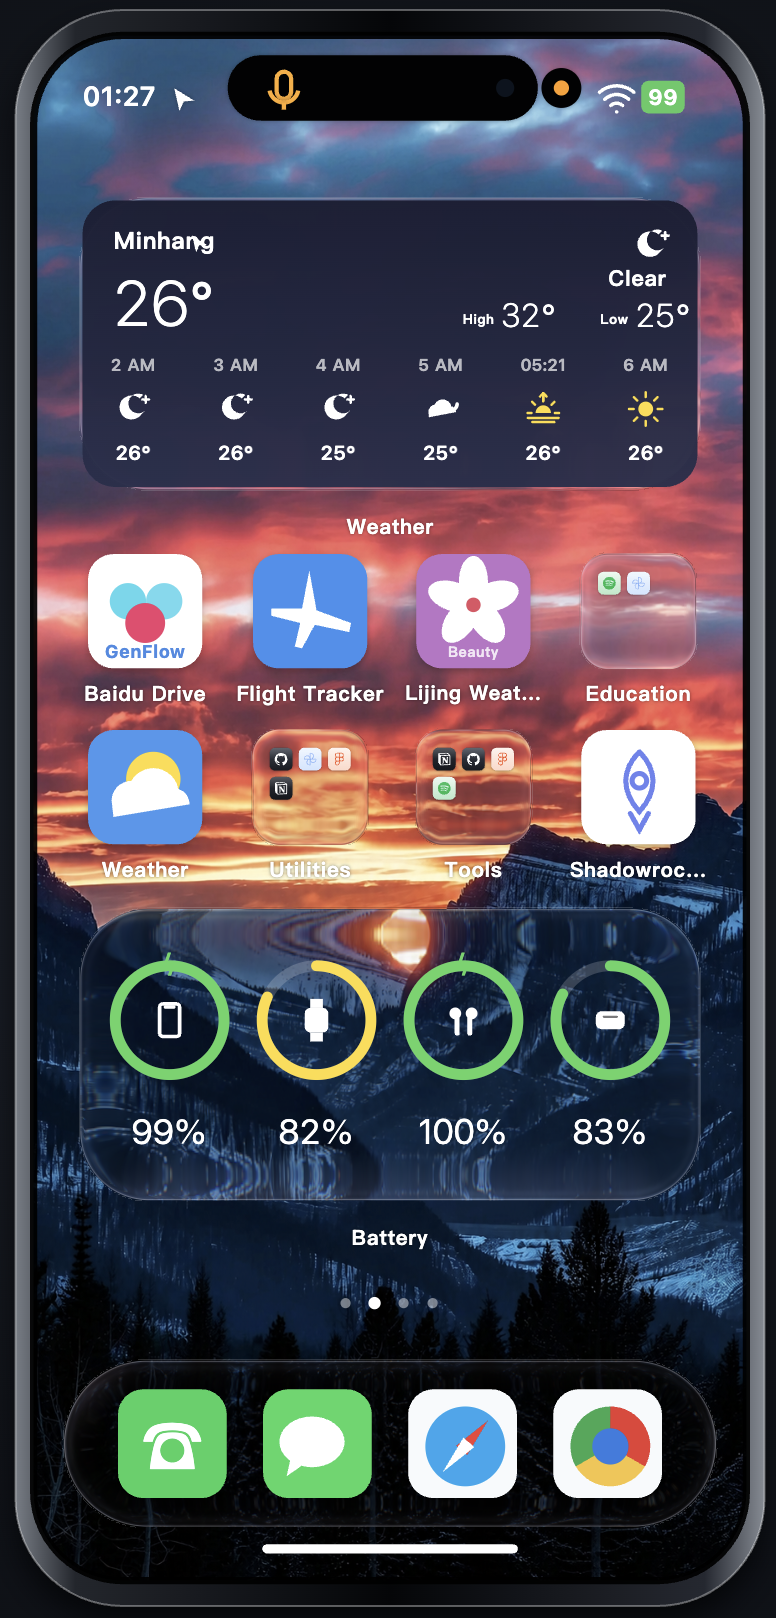
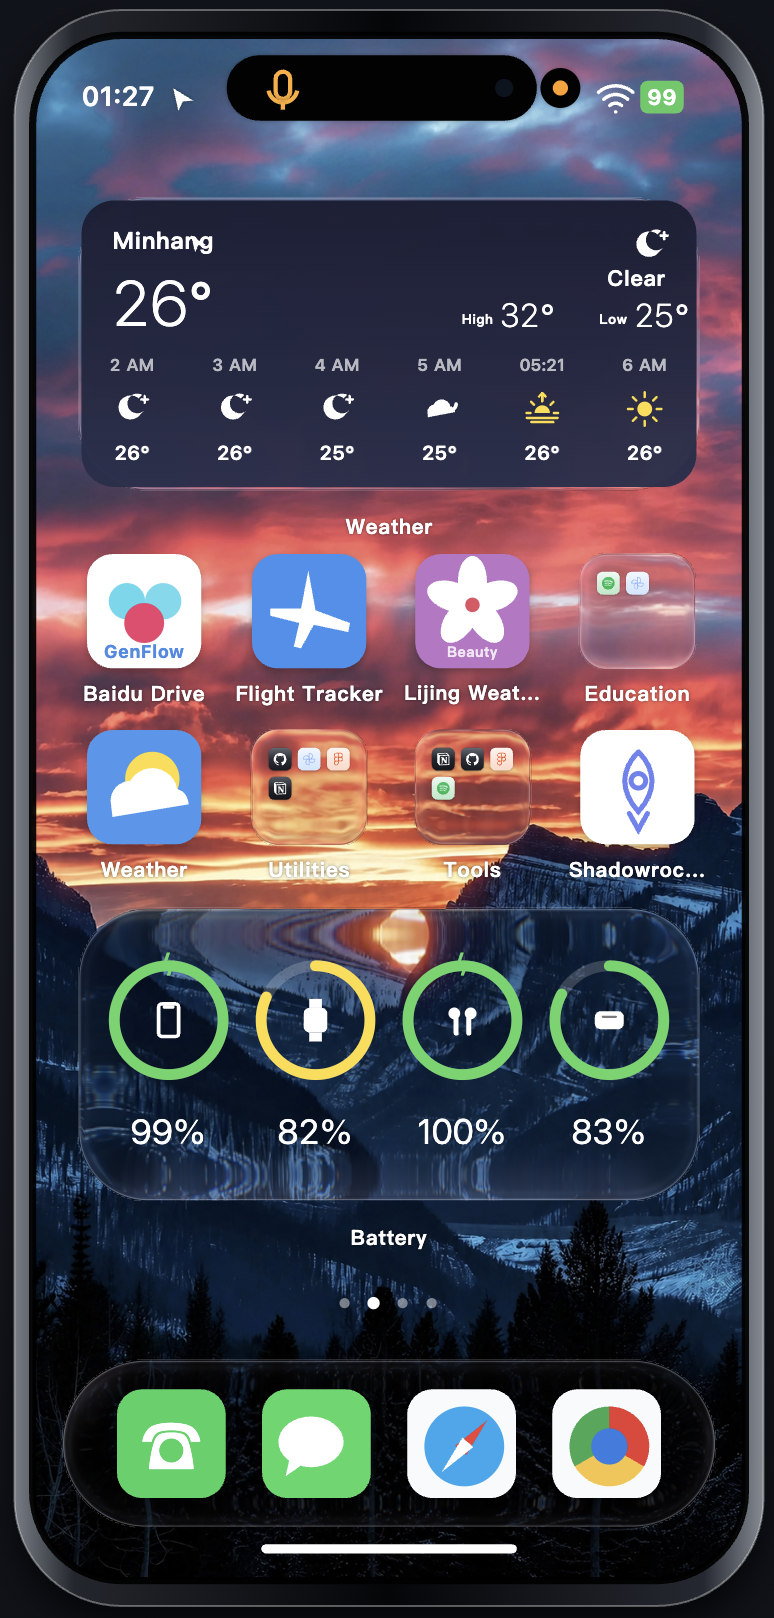
Normalize V2 demo sizes and publish 2.0.3

diff --git a/README.md b/README.md
@@ -21,31 +21,35 @@ wallpapers.
 
 <table>
   <tr>
-    <td><img src="assets/readme/v2-home-page-warm.png" alt="Liquid Glass V2 Home Page on warm fold wallpaper"></td>
-    <td><img src="assets/readme/v2-home-page-sunset.png" alt="Liquid Glass V2 Home Page on sunset lake wallpaper"></td>
-  </tr>
-  <tr>
-    <td><img src="assets/readme/v2-home-page-2.png" alt="Liquid Glass V2 second Home Page on sunset lake wallpaper"></td>
-    <td><img src="assets/readme/v2-night-city.png" alt="Liquid Glass V2 glass surfaces on a night city backdrop"></td>
+    <td align="center"><img src="assets/readme/v2-home-page-warm.png" alt="Liquid Glass V2 Home Page on warm fold wallpaper" width="360" height="752"></td>
+    <td align="center"><img src="assets/readme/v2-home-page-sunset.png" alt="Liquid Glass V2 Home Page on sunset lake wallpaper" width="360" height="752"></td>
   </tr>
 </table>
+
+<p align="center">
+  <img src="assets/readme/v2-home-page-2.png" alt="Liquid Glass V2 second Home Page on sunset lake wallpaper" width="360" height="752">
+</p>
+
+<p align="center">
+  <img src="assets/readme/v2-night-city.png" alt="Liquid Glass V2 glass surfaces on a night city backdrop" width="720" height="527">
+</p>
 
 ### Reference scenes
 
 ### Alpine Lake
 
-![Liquid Glass V2 on Alpine Lake](https://unpkg.com/apple-liquid-glass-webgl@2.0.2/assets/readme/v2-alpine-lake.jpg)
+![Liquid Glass V2 on Alpine Lake](https://unpkg.com/apple-liquid-glass-webgl@2.0.3/assets/readme/v2-alpine-lake.jpg)
 
 ### iPhone Home Page
 
 <p align="center">
-  <img src="https://unpkg.com/apple-liquid-glass-webgl@2.0.2/assets/readme/v2-home-page.jpg" alt="Liquid Glass V2 iPhone Home Page" width="720">
+  <img src="https://unpkg.com/apple-liquid-glass-webgl@2.0.3/assets/readme/v2-home-page.jpg" alt="Liquid Glass V2 iPhone Home Page" width="720">
 </p>
 
 ### iPhone Control Centre
 
 <p align="center">
-  <img src="https://unpkg.com/apple-liquid-glass-webgl@2.0.2/assets/readme/v2-control-centre.jpg" alt="Liquid Glass V2 iPhone Control Centre" width="720">
+  <img src="https://unpkg.com/apple-liquid-glass-webgl@2.0.3/assets/readme/v2-control-centre.jpg" alt="Liquid Glass V2 iPhone Control Centre" width="720">
 </p>
 
 ## Install
